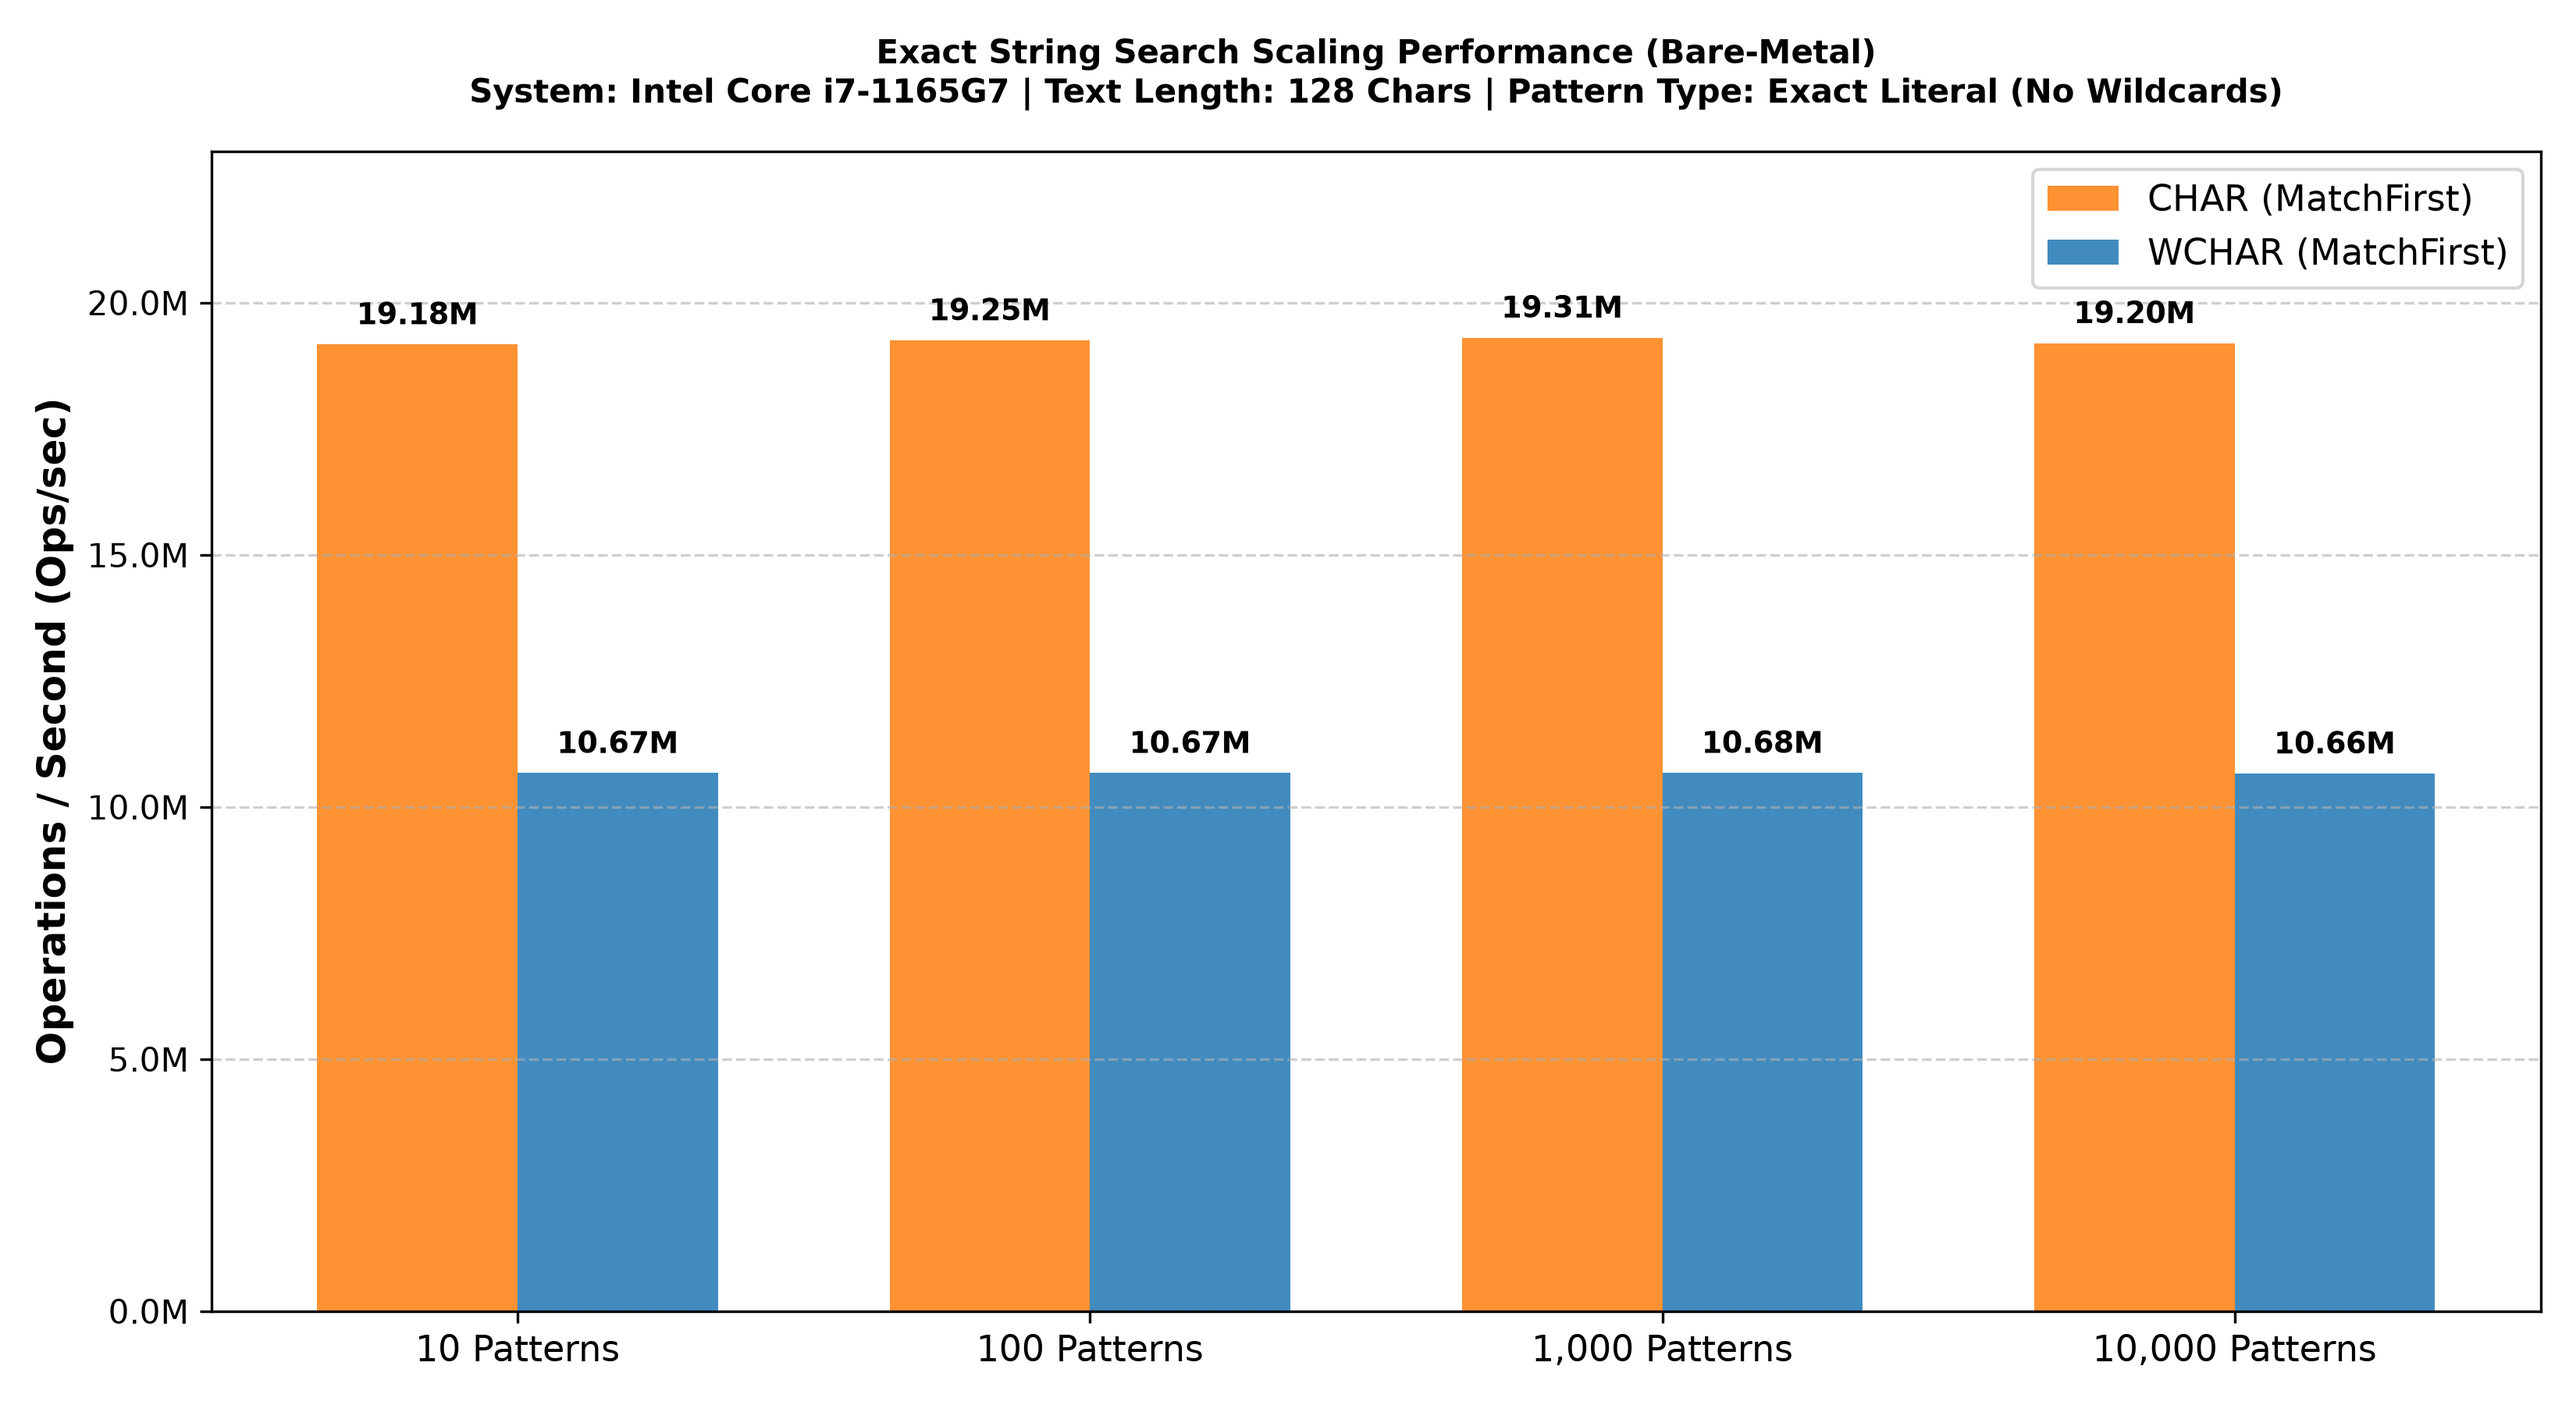
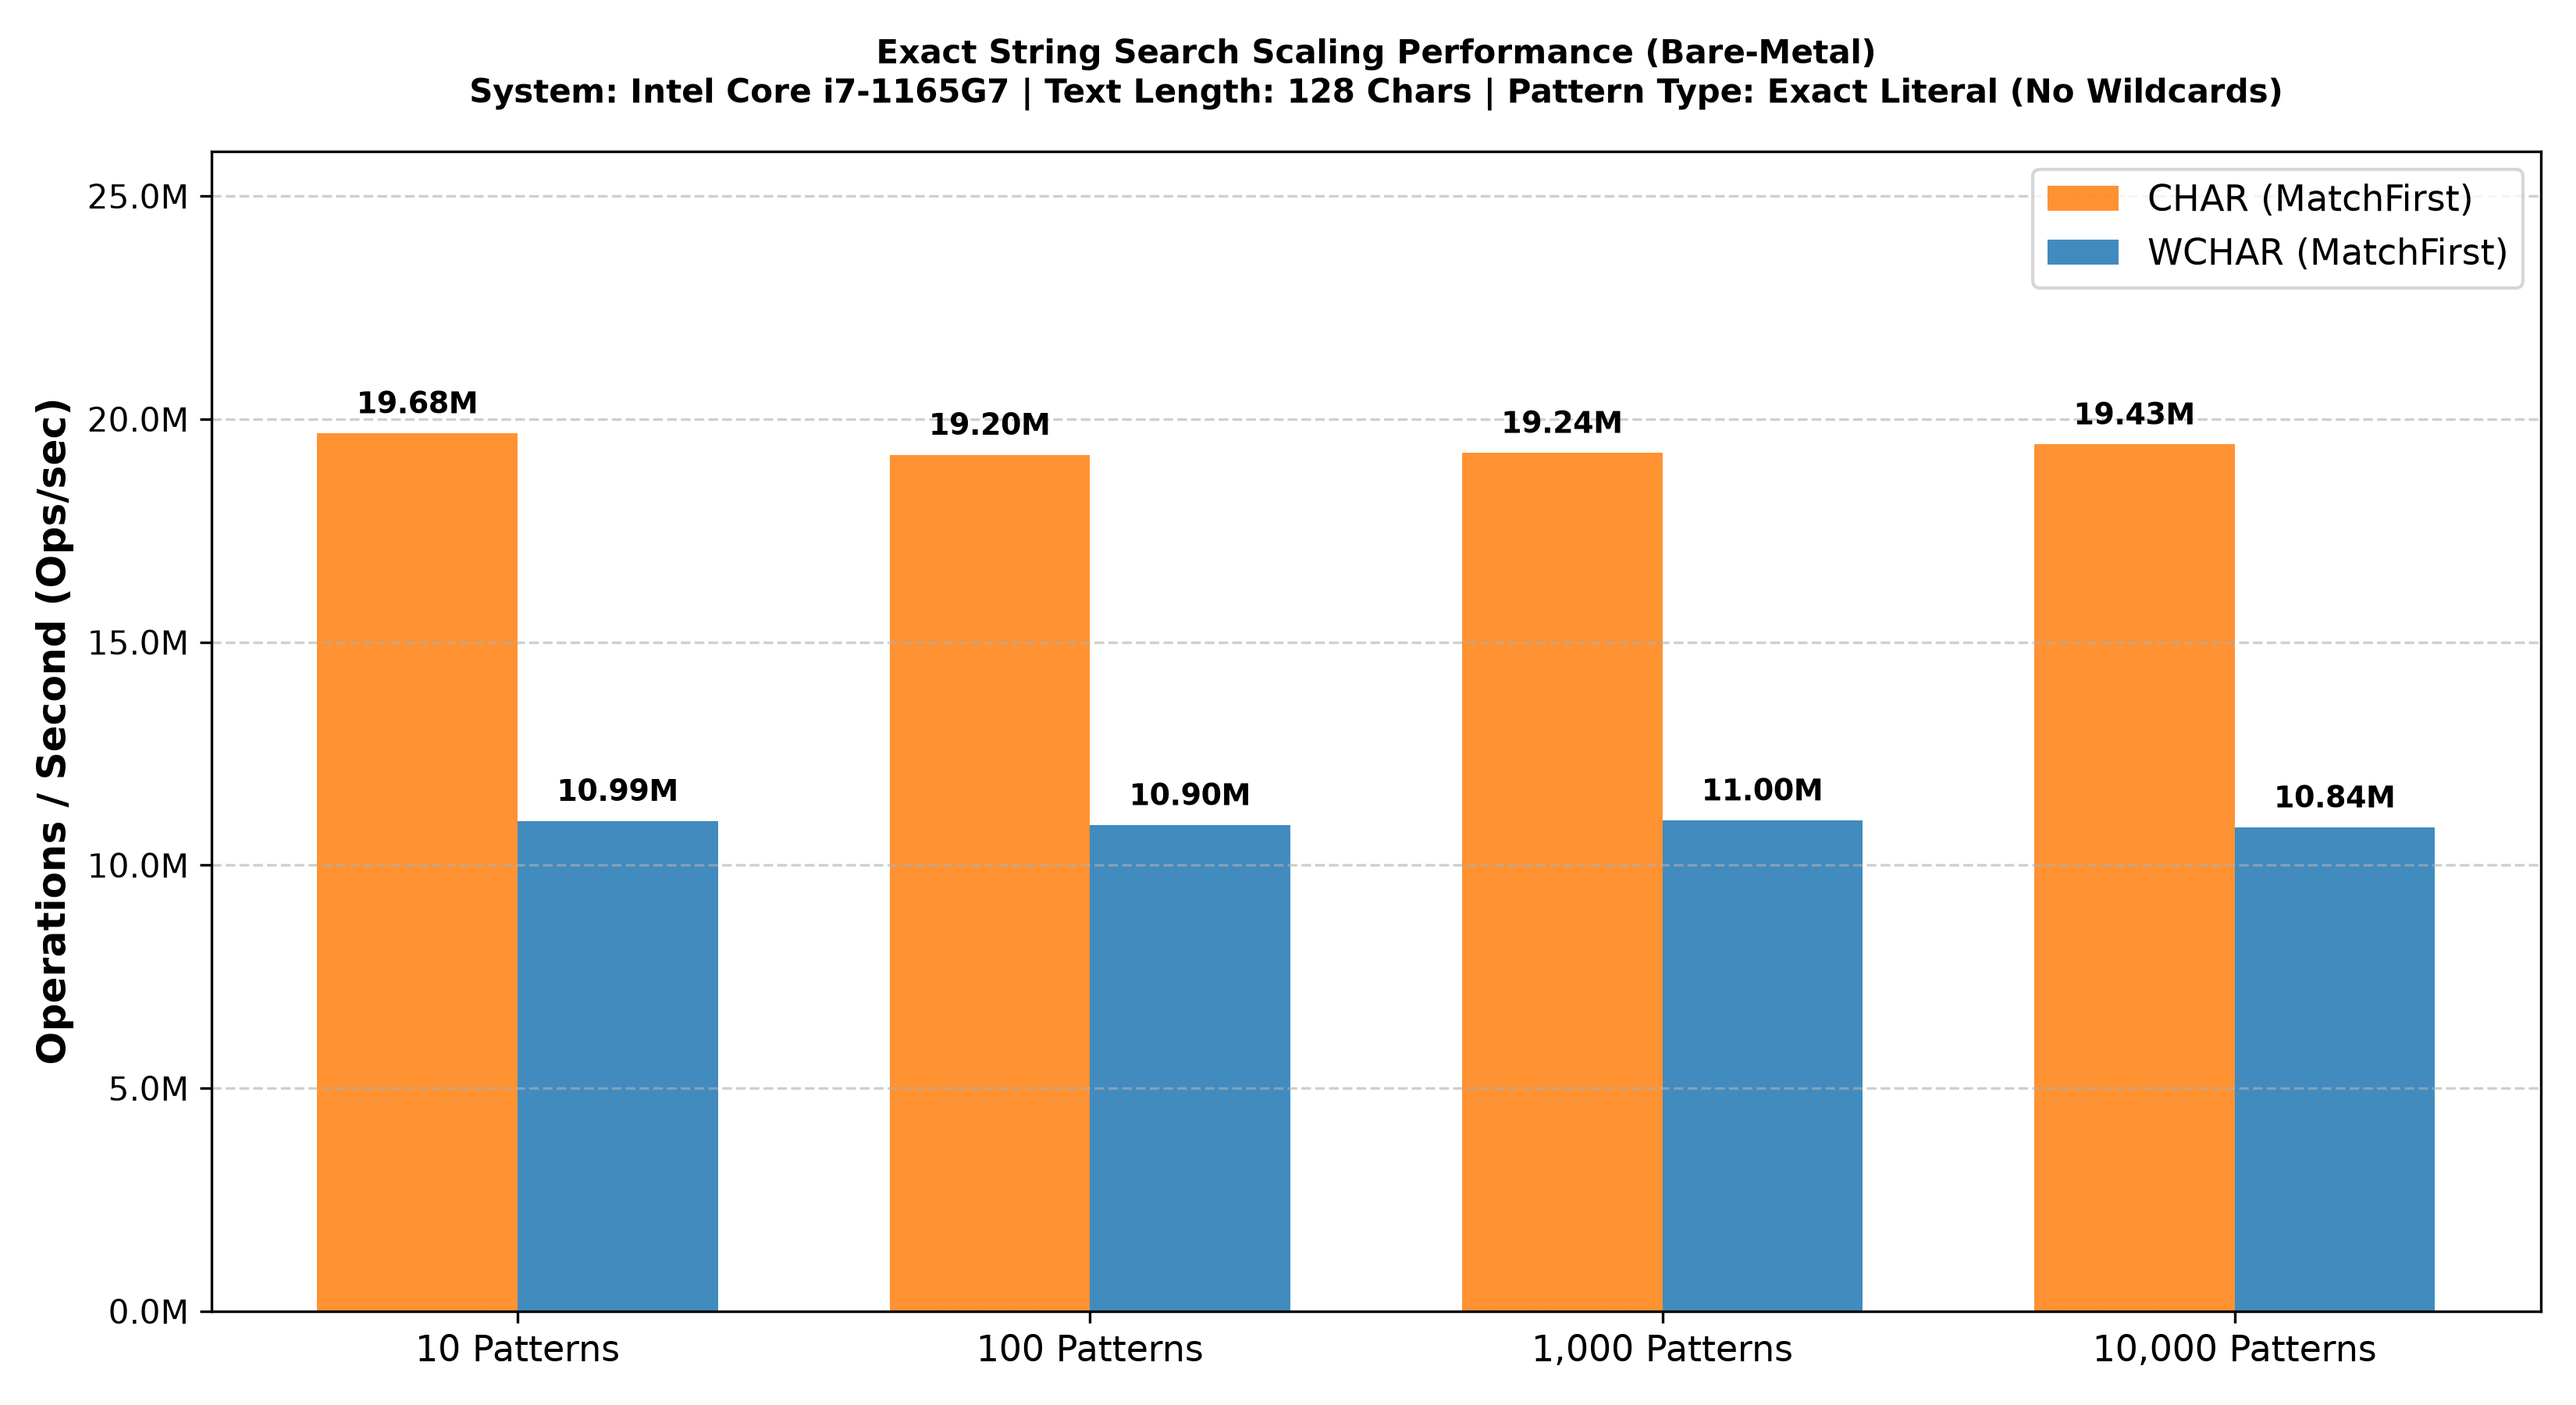
Optimize hashing, improve performance.

diff --git a/StringPatternMatch/KmStringPatternMatch.h b/StringPatternMatch/KmStringPatternMatch.h
@@ -278,6 +278,24 @@ namespace KmStringPatternMatchDetail
     }
 
     // -------------------------------------------------------------------------------------------
+    // Finalizes a rolling hash strictly prior to KFlatHashMap indexing.
+    // Pre-folds the upper 32 bits into the lower 32 bits before multiplying by kPrime so
+    // high-byte entropy avalanches across both the lower group index bits (3..k) and the
+    // upper 7 H2 control metadata bits (57..63), while decoupling the map index from the
+    // unfinalized low bits (0..9) inspected by m_HashFilter.
+    //
+    // Parameters:
+    //   Hash - The raw 64-bit rolling hash produced by CalculateHash / SearchInternal.
+    //
+    // Return:
+    //   The finalized 64-bit hash key for KFlatHashMap lookup or insertion.
+    // -------------------------------------------------------------------------------------------
+    __forceinline UINT64 FinalizeHash(_In_ UINT64 Hash) noexcept
+    {
+        return Mix64(Hash ^ (Hash >> 32));
+    }
+
+    // -------------------------------------------------------------------------------------------
     // Determines if a character is a path separator natively for the target OS.
     // Used exclusively when SCOPE_PATH_SEGMENT is active to halt wildcard expansion.
     //
@@ -692,8 +710,8 @@ private:
     KStringArena<TChar, PoolType> m_StringArena;  // Linear arena storing persistent pattern strings
     KDeque<TContext, PoolType>    m_ContextArena; // Flat storage preserving contextual payloads
     
-    KFlatHashMap<UINT64, KVector<PatternEntry, PoolType>, KPrecomputedHash, PoolType> m_HashMap;      // Prefix hash map mapping literal prefix hashes to pattern arrays
-    KVector<PatternEntry, PoolType>                                                   m_SlowPathList; // List of patterns starting immediately with wildcards
+    KFlatHashMap<UINT64, KVector<PatternEntry, PoolType>, KIdentityHash<UINT64>, PoolType> m_HashMap;      // Prefix hash map mapping literal prefix hashes to pattern arrays
+    KVector<PatternEntry, PoolType>                                                        m_SlowPathList; // List of patterns starting immediately with wildcards
 
     static constexpr TChar kStar     = static_cast<TChar>('*'); // Wildcard operator matching zero or more characters
     static constexpr TChar kQuestion = static_cast<TChar>('?'); // Wildcard operator matching exactly one character
@@ -730,7 +748,7 @@ KmStringPatternMatch<TContext, TChar, PoolType>::KmStringPatternMatch(_In_ bool 
 // Registers a pattern, parsing out literal prefixes and caching contexts in the arena.
 //
 // Parameters:
-//   sPattern      - Pointer to the character array defining the wildcard pattern.
+//   sPattern       - Pointer to the character array defining the wildcard pattern.
 //   cchPattern     - The length of the pattern in characters.
 //   WildScope      - The boundary scope to apply for wildcard operators.
 //   PatternContext - The user-defined context payload mapped to this specific pattern.
@@ -1067,7 +1085,7 @@ NTSTATUS KmStringPatternMatch<TContext, TChar, PoolType>::AddPattern(_In_reads_(
     }
 
     KVector<PatternEntry, PoolType>* pBucket = nullptr;
-    status = m_HashMap.GetOrInsert(hash, &pBucket);
+    status = m_HashMap.GetOrInsert(KmStringPatternMatchDetail::FinalizeHash(hash), &pBucket);
     if (!NT_SUCCESS(status)) [[unlikely]]
     {
         m_StringArena.RevertBookmark(bookmark);
@@ -1769,7 +1787,7 @@ bool KmStringPatternMatch<TContext, TChar, PoolType>::SearchInternal(_In_reads_(
             continue;
         }
 
-        const KVector<PatternEntry, PoolType>* pBucket = m_HashMap.Find(Hash);
+        const KVector<PatternEntry, PoolType>* pBucket = m_HashMap.Find(KmStringPatternMatchDetail::FinalizeHash(Hash));
         
         if (pBucket != nullptr) [[likely]]
         {

diff --git a/Readme.md b/Readme.md
@@ -271,28 +271,28 @@ Kernel-mode performance benchmarking demands strict control over system state to
 
 | Workload Profile | Pattern Count | Target Text Length | String Type | Throughput | Operations/sec | Latency/Op |
 | :--- | :--- | :--- | :--- | :--- | :--- | :--- |
-| **Realistic File Paths** | 1,000 | 56 Characters | `CHAR` | **890 MB/s** | **16.7 Million** | **60 ns** |
-| **Realistic File Paths** | 1,000 | 56 Characters | `WCHAR`| **1,683 MB/s** | **15.8 Million** | **63 ns** |
-| **Exact Match (No Wildcards)** | 100 | 128 Characters | `CHAR` | **2,350 MB/s** | **19.3 Million** | **52 ns** |
-| **Exact Match (No Wildcards)** | 100 | 128 Characters | `WCHAR`| **2,605 MB/s** | **10.7 Million** | **94 ns** |
-| **Meaningful Prose (`*xxx*`)** | 100 | 10,240 Characters | `CHAR` | **70 MB/s** | **7,250** | **137.9 µs** |
-| **Meaningful Prose (`*xxx*`)** | 100 | 10,240 Characters | `WCHAR`| **63 MB/s** | **3,242** | **308.5 µs** |
-| **Heavy Pathological (`*A%dB*`)**| 1,000 | 102,400 Characters | `CHAR` | **2,012 MB/s** | **20.6 K** | **48.5 µs** |
-| **Heavy Pathological (`*A%dB*`)**| 1,000 | 102,400 Characters | `WCHAR`| **1,740 MB/s** | **8.9 K** | **112.2 µs** |
+| **Realistic File Paths** | 1,000 | 56 Characters | `CHAR` | **931 MB/s** | **17.5 Million** | **57 ns** |
+| **Realistic File Paths** | 1,000 | 56 Characters | `WCHAR`| **1,709 MB/s** | **16.0 Million** | **62 ns** |
+| **Exact Match (No Wildcards)** | 100 | 128 Characters | `CHAR` | **2,343 MB/s** | **19.2 Million** | **52 ns** |
+| **Exact Match (No Wildcards)** | 100 | 128 Characters | `WCHAR`| **2,660 MB/s** | **10.9 Million** | **92 ns** |
+| **Meaningful Prose (`*xxx*`)** | 100 | 10,240 Characters | `CHAR` | **68 MB/s** | **7,022** | **142.4 µs** |
+| **Meaningful Prose (`*xxx*`)** | 100 | 10,240 Characters | `WCHAR`| **63 MB/s** | **3,231** | **309.5 µs** |
+| **Heavy Pathological (`*A%dB*`)**| 1,000 | 102,400 Characters | `CHAR` | **1,957 MB/s** | **20.0 K** | **49.9 µs** |
+| **Heavy Pathological (`*A%dB*`)**| 1,000 | 102,400 Characters | `WCHAR`| **1,764 MB/s** | **9.0 K** | **110.7 µs** |
 
 #### Virtualized Guest (VMware on Intel Core i7-8086K)
 *Environment: Windows 11 Virtual Machine (VMware Workstation) hosted on Intel Core i7-8086K. High-priority thread execution.*
 
 | Workload Profile | Pattern Count | Target Text Length | String Type | Throughput | Operations/sec | Latency/Op |
 | :--- | :--- | :--- | :--- | :--- | :--- | :--- |
-| **Realistic File Paths** | 1,000 | 56 Characters | `CHAR` | **800 MB/s** | **15.0 Million** | **67 ns** |
-| **Realistic File Paths** | 1,000 | 56 Characters | `WCHAR`| **1,484 MB/s** | **13.9 Million** | **72 ns** |
-| **Exact Match (No Wildcards)** | 100 | 128 Characters | `CHAR` | **2,012 MB/s** | **16.5 Million** | **61 ns** |
-| **Exact Match (No Wildcards)** | 100 | 128 Characters | `WCHAR`| **2,444 MB/s** | **10.0 Million** | **100 ns** |
-| **Meaningful Prose (`*xxx*`)** | 100 | 10,240 Characters | `CHAR` | **45 MB/s** | **4,608** | **217.0 µs** |
-| **Meaningful Prose (`*xxx*`)** | 100 | 10,240 Characters | `WCHAR`| **31 MB/s** | **1,611** | **620.7 µs** |
-| **Heavy Pathological (`*A%dB*`)**| 1,000 | 102,400 Characters | `CHAR` | **1,924 MB/s** | **19.7 K** | **50.7 µs** |
-| **Heavy Pathological (`*A%dB*`)**| 1,000 | 102,400 Characters | `WCHAR`| **1,540 MB/s** | **7.9 K** | **126.8 µs** |
+| **Realistic File Paths** | 1,000 | 56 Characters | `CHAR` | **832 MB/s** | **15.6 Million** | **64 ns** |
+| **Realistic File Paths** | 1,000 | 56 Characters | `WCHAR`| **1,500 MB/s** | **14.0 Million** | **71 ns** |
+| **Exact Match (No Wildcards)** | 100 | 128 Characters | `CHAR` | **2,103 MB/s** | **17.2 Million** | **58 ns** |
+| **Exact Match (No Wildcards)** | 100 | 128 Characters | `WCHAR`| **2,843 MB/s** | **11.6 Million** | **86 ns** |
+| **Meaningful Prose (`*xxx*`)** | 100 | 10,240 Characters | `CHAR` | **45 MB/s** | **4,644** | **215.3 µs** |
+| **Meaningful Prose (`*xxx*`)** | 100 | 10,240 Characters | `WCHAR`| **38 MB/s** | **1,951** | **512.6 µs** |
+| **Heavy Pathological (`*A%dB*`)**| 1,000 | 102,400 Characters | `CHAR` | **1,998 MB/s** | **20.5 K** | **48.9 µs** |
+| **Heavy Pathological (`*A%dB*`)**| 1,000 | 102,400 Characters | `WCHAR`| **1,605 MB/s** | **8.2 K** | **121.7 µs** |
 
 > **Pattern Scaling Performance** — comparison between `CHAR` and `WCHAR` engines evaluating realistic file path patterns (e.g. `\\Device\\HarddiskVolume2\\Program Files\\App%u\\*\\crypt.exe`) across 10, 100, 1,000 and 10,000 pattern sets in MatchFirst mode.
 
@@ -309,7 +309,7 @@ Kernel-mode performance benchmarking demands strict control over system state to
   </tr>
 </table>
 
-Evaluating realistic paths requires an initial prefix hash lookup, an $O(1)$ SWAR tail-anchor check, and a wildcard evaluation over the remaining interior path segment. Scaling to 10,000 patterns expands the pattern metadata footprint. Across both bare-metal and virtualized environments, the engine demonstrates sustained scaling: `CHAR` throughput holds between 14.4M and 17.6M operations per second, while `WCHAR` throughput reliably maintains between 13.0M and 15.8M operations per second from 10 to 10,000 registered rules.
+Evaluating realistic paths requires an initial prefix hash lookup, an $O(1)$ SWAR tail-anchor check, and a wildcard evaluation over the remaining interior path segment. Scaling to 10,000 patterns expands the pattern metadata footprint. Across both bare-metal and virtualized environments, the engine demonstrates sustained scaling: `CHAR` throughput holds between 15.0M and 18.5M operations per second, while `WCHAR` throughput reliably maintains between 13.1M and 16.1M operations per second from 10 to 10,000 registered rules.
 
 > **Exact String Scaling Performance** — comparison between `CHAR` and `WCHAR` engines evaluating 128-char exact literal patterns across 10, 100, 1,000 and 10,000 pattern sets in MatchFirst mode.
 
@@ -326,7 +326,7 @@ Evaluating realistic paths requires an initial prefix hash lookup, an $O(1)$ SWA
   </tr>
 </table>
 
-For exact literal matching, the engine maintains nearly constant throughput across all density tiers. Lacking wildcards, these evaluations rely purely on the 1024-bit hash-existence filter and a single $O(1)$ hash map probe. Bypassing the wildcard state machine establishes a highly predictable memory access pattern. This minimizes cache thrashing, allowing both mobile and desktop architectures to sustain flat baseline performance (reaching 10.0M to 10.7M ops/sec for `WCHAR` and up to 19.3M ops/sec for `CHAR`) without degradation from 10 to 10,000 registered patterns.
+For exact literal matching, the engine maintains nearly constant throughput across all density tiers. Lacking wildcards, these evaluations rely purely on the 1024-bit hash-existence filter and a single $O(1)$ hash map probe. Bypassing the wildcard state machine establishes a highly predictable memory access pattern. This minimizes cache thrashing, allowing both mobile and desktop architectures to sustain flat baseline performance (reaching 10.8M to 11.8M ops/sec for `WCHAR` and up to 19.7M ops/sec for `CHAR`) without degradation from 10 to 10,000 registered patterns.
 
 > **See Also:** For details on the isolated performance behavior of the underlying data structures, refer to the `/TestContainer/` description in the [Project Layout](#project-layout).
 ---
